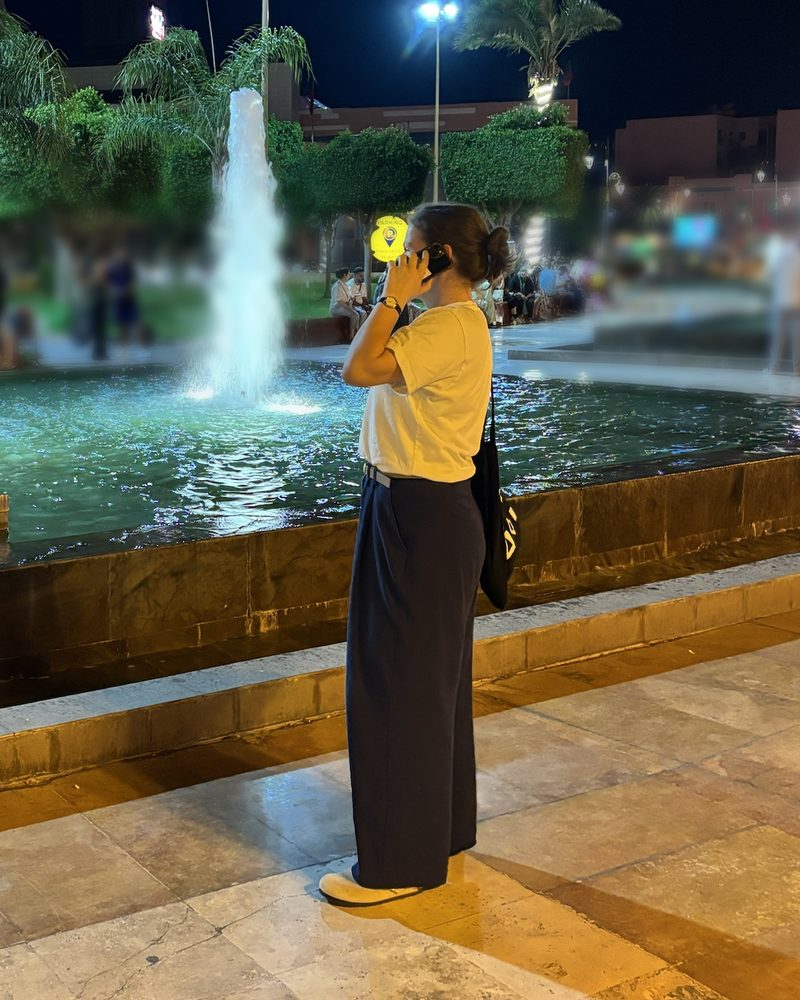
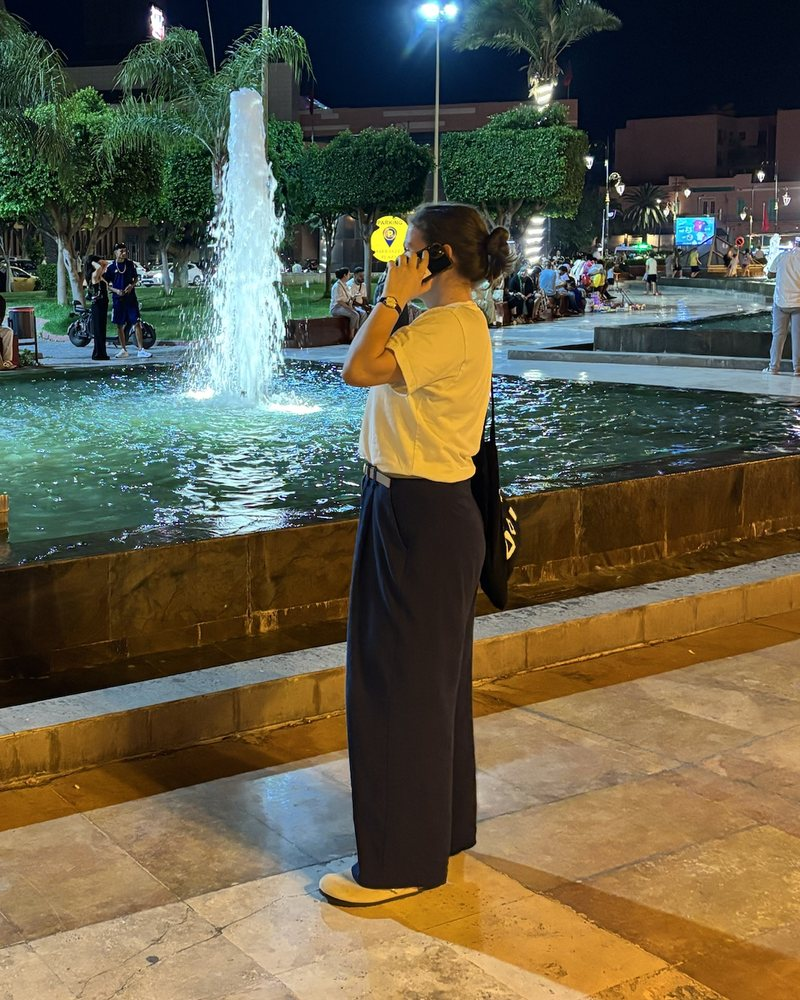
Photo sans flou
Claude-Session: https://claude.ai/code/session_01JipF6FW7tsy1gBPv65HV2q

Changed region(s): [[0.0, 0.155, 0.5, 0.403], [0.625, 0.155, 1.0, 0.434]]

diff --git a/index.html b/index.html
@@ -113,7 +113,7 @@
 <div class="kicker" data-reveal>Qui je suis</div>
 <h2 class="h2" data-reveal>Du football et de l'usine à la liberté</h2>
 <div class="mentor">
-<figure class="portrait" data-reveal="left"><img src="alexandra.jpg?v=1" width="800" height="1000" alt="Alexandra au téléphone devant une fontaine, de nuit, lors d'un voyage au Maroc" loading="lazy"><figcaption>Un appel de closing au Maroc, entre deux balades. C'est ça, la liberté dont je parle.</figcaption></figure>
+<figure class="portrait" data-reveal="left"><img src="alexandra.jpg?v=2" width="800" height="1000" alt="Alexandra au téléphone devant une fontaine, de nuit, lors d'un voyage au Maroc" loading="lazy"><figcaption>Un appel de closing au Maroc, entre deux balades. C'est ça, la liberté dont je parle.</figcaption></figure>
 <div data-reveal="right">
 <p>J'ai fait du football en sport-études. Ensuite, j'ai travaillé en usine.</p>
 <p>J'ai aussi passé un an de volontariat en Italie, où je vis aujourd'hui, à Gênes. Cela fait plus de 3 ans que je vis du closing. Dès ma première année, j'ai généré plus de 350 000 € de ventes pour mes clients.</p>
